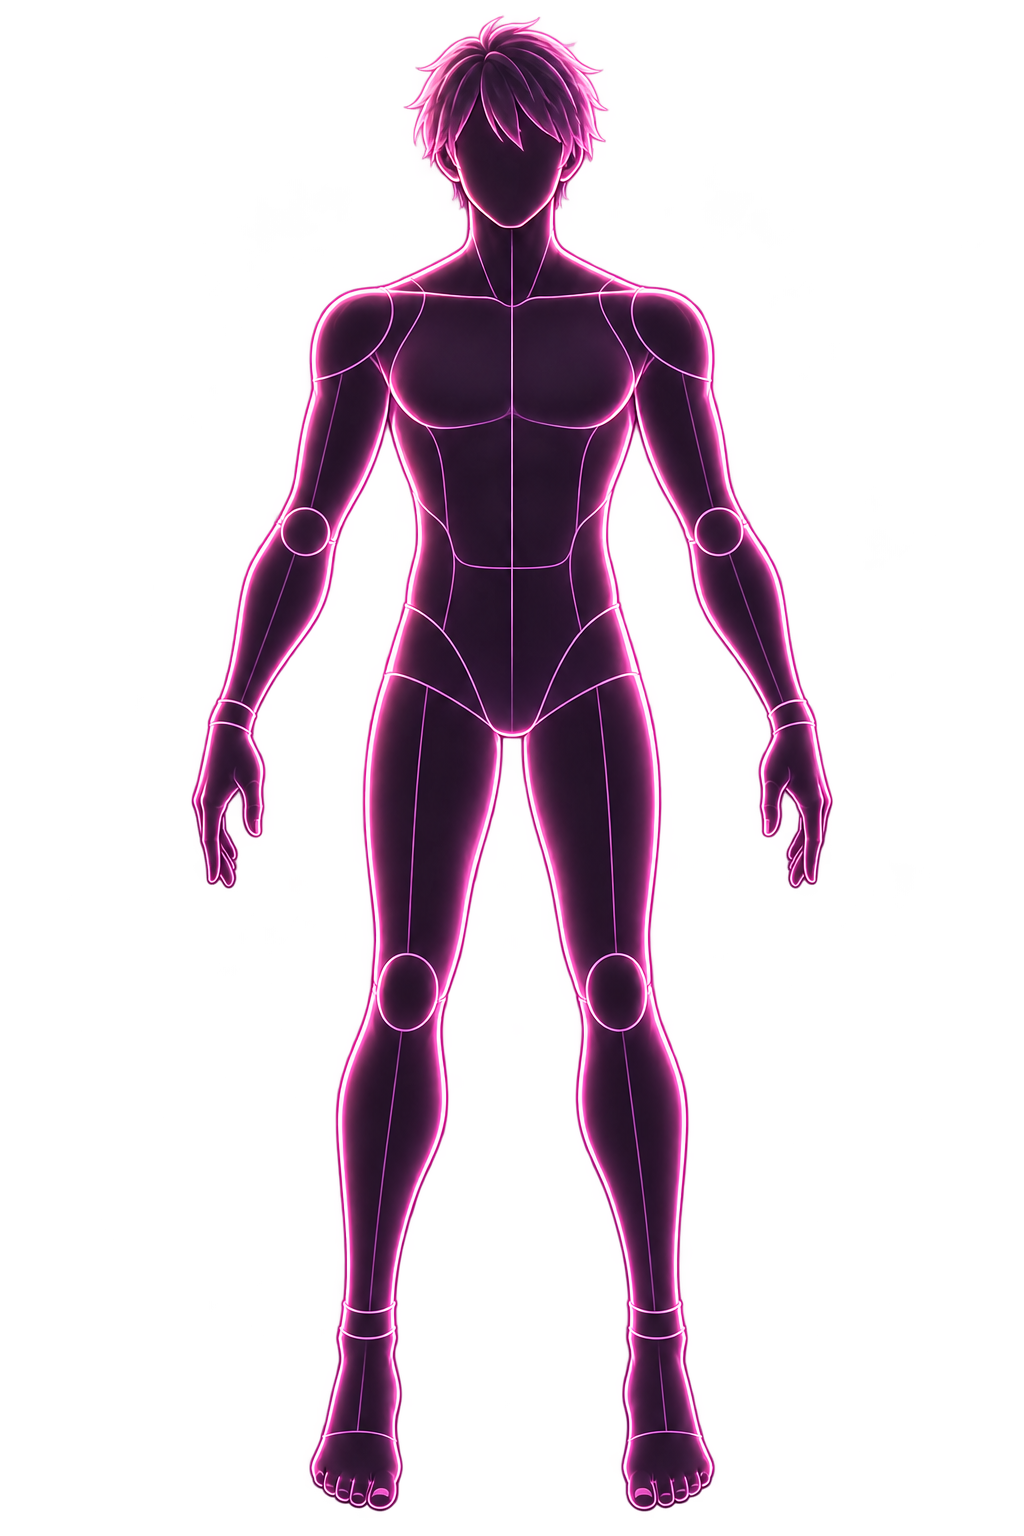
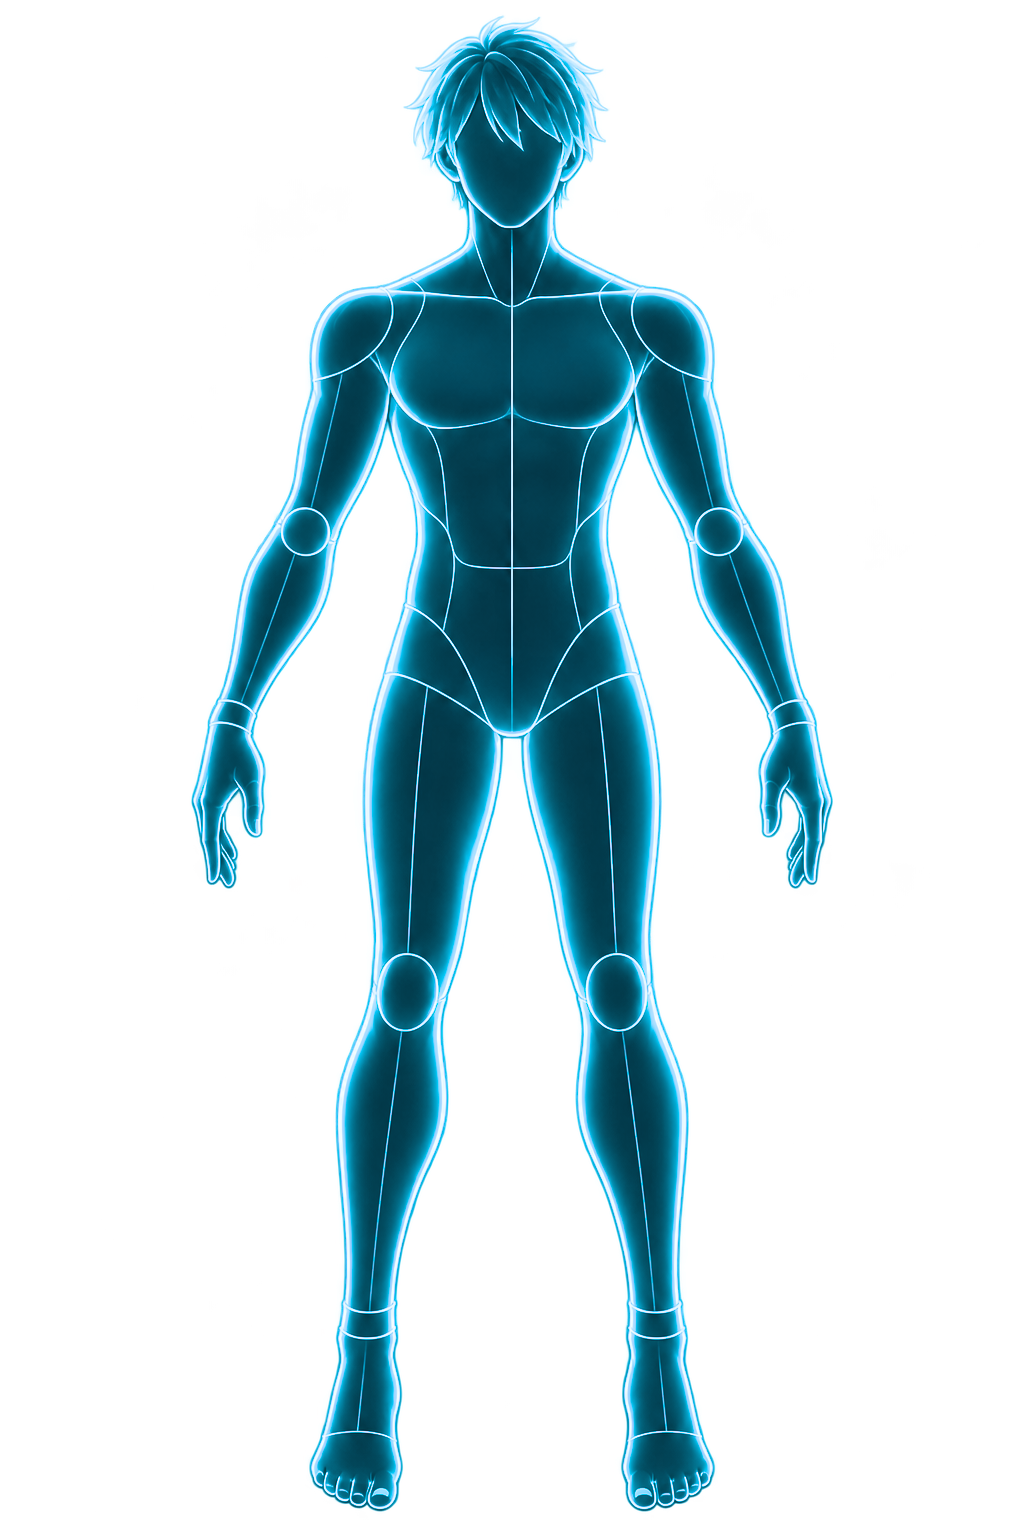
Animate new gallery cards and refine character reveals

Changed region(s): [[0.1875, 0.0, 0.8125, 1.0]]

diff --git a/web/vnccs_character_generator.js b/web/vnccs_character_generator.js
@@ -570,7 +570,8 @@ ${SAKURA_THEME_CSS}
     position: absolute;
     left: 0;
     right: 0;
-    bottom: 0;
+    --vnccs-scan-edge-offset: clamp(10px, 4%, 23px);
+    bottom: calc(0px - var(--vnccs-scan-edge-offset));
     height: clamp(20px, 8%, 46px);
     background: linear-gradient(180deg, transparent, rgba(255,143,163,0.22) 30%, rgba(255,235,244,0.94) 50%, rgba(255,143,163,0.28) 68%, transparent);
     box-shadow: 0 0 22px rgba(255,143,163,0.22);
@@ -1326,6 +1327,7 @@ class CharacterGeneratorWidget {
         this.nodeDefs = {};
         this.fieldDrafts = new Map();
         this.previewLayoutFrame = null;
+        this.previewCardEntranceFrame = null;
         this.previewLoadQueue = [];
         this.previewLoadsActive = 0;
         this._clothesRevealIndices = new Set();
@@ -1427,6 +1429,8 @@ class CharacterGeneratorWidget {
             }
             cancelAnimationFrame(this.previewLayoutFrame);
             this.previewLayoutFrame = null;
+            cancelAnimationFrame(this.previewCardEntranceFrame);
+            this.previewCardEntranceFrame = null;
         });
         this.bindModelResolutionSync();
         if (this.isClone) {
@@ -3687,6 +3691,9 @@ class CharacterGeneratorWidget {
             : (Number.isInteger(state.processing_index) ? state.processing_index : Math.max(0, Number(state.current) || 0));
         const completed = state.processing_indices?.length
             ? Math.min(...state.processing_indices) : Math.max(0, Number(state.current) || 0);
+        const statePreviewAspect = Number(state.preview_aspect);
+        const fixedPreviewAspect = Number.isFinite(statePreviewAspect) && statePreviewAspect > 0
+            ? statePreviewAspect : null;
         this.previewEmpty.hidden = count > 0;
         this.previewEmpty.textContent = this.formatStageStatus(this.selectedPreview);
         this.previewGrid.style.display = count ? "grid" : "none";
@@ -3710,6 +3717,7 @@ class CharacterGeneratorWidget {
             tile.role = "button";
             tile.dataset.focusKey = `preview-image-${index}`;
             tile.style.setProperty("--wait-phase", `${-index * 180}ms`);
+            tile._previewEntrancePending = true;
             const placeholder = document.createElement("img");
             placeholder.className = "vnccs-pipe-img-placeholder";
             placeholder.src = mannequinURL;
@@ -3729,6 +3737,9 @@ class CharacterGeneratorWidget {
             this.previewGrid.appendChild(tile);
         }
         [...this.previewGrid.children].forEach((tile, index) => {
+            // The backend knows the batch dimensions before individual images decode. Keep
+            // that ratio authoritative so each completed card cannot reflow its neighbours.
+            if (fixedPreviewAspect) tile._previewAspect = fixedPreviewAspect;
             const placeholder = tile.querySelector(".vnccs-pipe-img-placeholder");
             if (placeholder && placeholder.src !== mannequinURL) placeholder.src = mannequinURL;
             const source = (targeted && images.length === 1
@@ -3760,7 +3771,13 @@ class CharacterGeneratorWidget {
             tile.setAttribute("aria-busy", String(Boolean(processing || waiting)));
             tile.ariaLabel = `${name} image ${index + 1}${processing ? ", processing" : waiting ? ", waiting" : busy && index < completed ? ", processed" : ""}`;
             tile.tabIndex = tile.dataset.src ? 0 : -1;
-            tile.classList.toggle("is-placeholder", Boolean(showPlaceholders && !tile.dataset.src));
+            const displaysPlaceholder = Boolean(showPlaceholders && !tile.dataset.src);
+            tile.classList.toggle("is-placeholder", displaysPlaceholder);
+            if (placeholder && !tile.classList.contains("is-character-revealing")) {
+                placeholder.style.display = displaysPlaceholder ? "" : "none";
+                placeholder.style.visibility = displaysPlaceholder ? "visible" : "hidden";
+                if (displaysPlaceholder) placeholder.style.opacity = "";
+            }
             tile.classList.toggle("is-empty", !tile.dataset.src && !showPlaceholders);
             const canRegenerate = state.status === "done" && !this.regenerateState && Boolean(images[index]);
             let regen = tile.querySelector(".vnccs-pipe-img-regen");
@@ -3782,6 +3799,24 @@ class CharacterGeneratorWidget {
         });
         this.flushPreviewImages();
         this.schedulePreviewGridLayout(this.previewGrid);
+        this.schedulePreviewCardEntrances();
+    }
+
+    schedulePreviewCardEntrances() {
+        if (this.previewCardEntranceFrame) return;
+        this.previewCardEntranceFrame = requestAnimationFrame(() => {
+            this.previewCardEntranceFrame = null;
+            if (!this.previewGrid?.isConnected || this._disposed) return;
+            const cards = [...this.previewGrid.children].filter(tile => tile._previewEntrancePending);
+            cards.forEach((tile, index) => {
+                tile._previewEntrancePending = false;
+                const motion = this._ui?._playMotion(tile, [
+                    { opacity: 0, transform: "translateY(10px) scale(0.97)" },
+                    { opacity: 1, transform: "none" },
+                ], 380);
+                motion?.effect?.updateTiming?.({ delay: index * 70, fill: "backwards" });
+            });
+        });
     }
 
     queuePreviewImageLoad(tile, image, src) {
@@ -3853,28 +3888,44 @@ class CharacterGeneratorWidget {
 
     finishCharacterPreviewTransition(tile) {
         if (!tile?._characterRevealAnimations?.length && !tile?.classList?.contains("is-character-revealing")) return;
+        const placeholder = tile.querySelector?.(".vnccs-pipe-img-placeholder");
+        if (tile._previewImage) tile._previewImage.style.clipPath = "";
+        if (placeholder) {
+            placeholder.style.display = "none";
+            placeholder.style.opacity = "0";
+            placeholder.style.visibility = "hidden";
+            placeholder.style.clipPath = "inset(100% 0 0 0)";
+        }
+        tile.classList.toggle("is-character-revealing", false);
         for (const animation of tile._characterRevealAnimations || []) {
             animation.onfinish = null;
             animation.cancel?.();
         }
         tile._characterRevealAnimations = null;
-        tile.classList.toggle("is-character-revealing", false);
-        if (tile._previewImage) tile._previewImage.style.clipPath = "";
+        if (placeholder) placeholder.style.clipPath = "";
     }
 
     startCharacterPreviewTransition(tile, image, delay = 0) {
         tile.classList.toggle("is-character-revealing", true);
         image.style.opacity = "1";
         image.style.clipPath = "inset(0 0 100% 0)";
+        const placeholder = tile.querySelector(".vnccs-pipe-img-placeholder");
+        if (placeholder) {
+            placeholder.style.display = "";
+            placeholder.style.opacity = "";
+            placeholder.style.visibility = "visible";
+            placeholder.style.clipPath = "inset(0% 0 0 0)";
+        }
         const scan = tile.querySelector(".vnccs-pipe-img-placeholder-scan");
         const reducedMotion = window.matchMedia?.("(prefers-reduced-motion: reduce)").matches;
-        if (reducedMotion || !image.animate || !scan?.animate) {
+        if (reducedMotion || !image.animate || !placeholder?.animate || !scan?.animate) {
             this.finishCharacterPreviewTransition(tile);
             return;
         }
-        const options = { duration: 1100, delay, easing: "cubic-bezier(0.22, 1, 0.36, 1)", fill: "backwards" };
+        const options = { duration: 1100, delay, easing: "cubic-bezier(0.22, 1, 0.36, 1)", fill: "both" };
         const animations = [
             image.animate([{ clipPath: "inset(0 0 100% 0)" }, { clipPath: "inset(0 0 0% 0)" }], options),
+            placeholder.animate([{ clipPath: "inset(0% 0 0 0)" }, { clipPath: "inset(100% 0 0 0)" }], options),
             scan.animate([
                 { transform: "translateY(-100%)", opacity: 0.72 },
                 { transform: "translateY(0)", opacity: 1 },
@@ -3952,7 +4003,9 @@ class CharacterGeneratorWidget {
             const clothesReveal = Boolean(previous && this.isClothes && this.selectedPreview === "pose_generation"
                 && this._clothesRevealIndices?.delete(index));
             tile._previewImage = image;
-            if (!clothesReveal) tile._previewAspect = image.naturalWidth / image.naturalHeight;
+            const stateAspect = Number(this.stageState?.[this.selectedPreview]?.preview_aspect);
+            const hasFixedStageAspect = Number.isFinite(stateAspect) && stateAspect > 0;
+            if (!clothesReveal && !hasFixedStageAspect) tile._previewAspect = image.naturalWidth / image.naturalHeight;
             for (const sibling of this.previewGrid?.children || []) {
                 if (!sibling.dataset.src) sibling._previewAspect = tile._previewAspect;
             }
@@ -3999,9 +4052,12 @@ class CharacterGeneratorWidget {
         const images = [...grid.children].map(tile => tile._clothesRevealBase || tile._previewImage || (tile._pendingImage?._previewReady ? tile._pendingImage : null));
         const known = images.find(image => image?.naturalWidth > 0 && image?.naturalHeight > 0);
         const fallback = known ? known.naturalWidth / known.naturalHeight : 1;
-        const aspects = images.map((image, index) => image?.naturalWidth > 0 && image?.naturalHeight > 0
-            ? image.naturalWidth / image.naturalHeight
-            : (Number(grid.children[index]._previewAspect) || fallback));
+        const aspects = images.map((image, index) => {
+            const fixed = Number(grid.children[index]._previewAspect);
+            if (Number.isFinite(fixed) && fixed > 0) return fixed;
+            return image?.naturalWidth > 0 && image?.naturalHeight > 0
+                ? image.naturalWidth / image.naturalHeight : fallback;
+        });
         let best = null;
         for (let cols = 1; cols <= count; cols++) {
             const rows = Math.ceil(count / cols);
